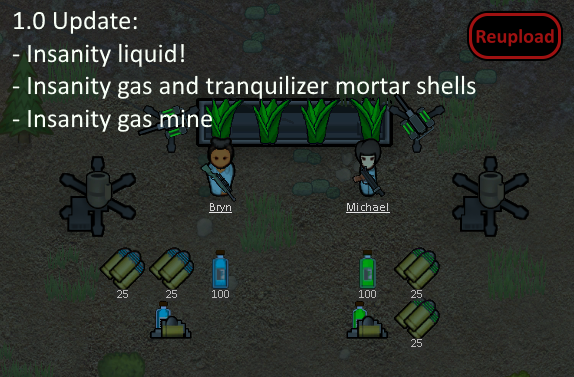
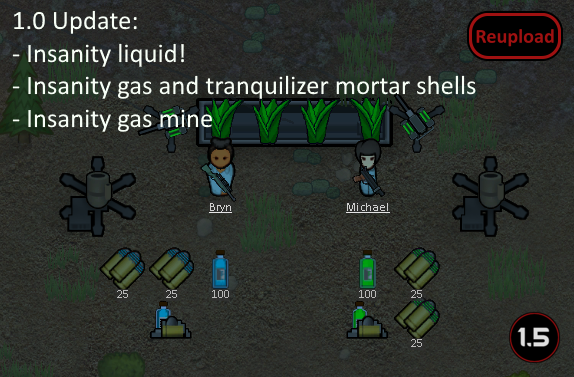
Mod updated for 1.5 and passed autotests

Changed region(s): [[0.8885, 0.817, 0.9774, 0.9629]]

diff --git a/Source/Tranquilizer/ProjectileTranquillizerBullet.cs b/Source/Tranquilizer/ProjectileTranquillizerBullet.cs
@@ -5,13 +5,13 @@ namespace Wowcheg.Tranquilizer;
 
 public class ProjectileTranquillizerBullet : Bullet
 {
-    public HediffDef HediffToAdd = HediffDefTranquilizer.Tranquilizer;
+    public readonly HediffDef HediffToAdd = HediffDefTranquilizer.Tranquilizer;
 
     public ThingDefTranquillizerBullet Def => def as ThingDefTranquillizerBullet;
 
     protected override void Impact(Thing hitThing, bool blockedByShield = false)
     {
-        base.Impact(hitThing);
+        base.Impact(hitThing, blockedByShield);
         if (Def == null || hitThing is not Pawn hitPawn)
         {
             return;

diff --git a/Source/Tranquilizer/TranquilizerMod.cs b/Source/Tranquilizer/TranquilizerMod.cs
@@ -27,8 +27,7 @@ internal class TranquilizerMod : Mod
     {
         instance = this;
         currentVersion =
-            VersionFromManifest.GetVersionFromModMetaData(
-                ModLister.GetActiveModWithIdentifier("Mlie.TranquilizerGuns"));
+            VersionFromManifest.GetVersionFromModMetaData(content.ModMetaData);
     }
 
     /// <summary>

diff --git a/README.md b/README.md
@@ -64,12 +64,13 @@ I guess guns became too weak:
 
 -  See if the the error persists if you just have this mod and its requirements active.
 -  If not, try adding your other mods until it happens again.
--  Post your error-log using https://steamcommunity.com/workshop/filedetails/?id=818773962]HugsLib and command Ctrl+F12
+-  Post your error-log using https://steamcommunity.com/workshop/filedetails/?id=818773962]HugsLib or the standalone https://steamcommunity.com/sharedfiles/filedetails/?id=2873415404]Uploader and command Ctrl+F12
 -  For best support, please use the Discord-channel for error-reporting.
 -  Do not report errors by making a discussion-thread, I get no notification of that.
 -  If you have the solution for a problem, please post it to the GitHub repository.
+-  Use https://github.com/RimSort/RimSort/releases/latest]RimSort to sort your mods
 
 
 
+https://steamcommunity.com/sharedfiles/filedetails/changelog/2606555060]![Image](https://img.shields.io/github/v/release/emipa606/TranquilizerGuns?label=latest%20version&style=plastic&color=9f1111&labelColor=black)
 
-https://steamcommunity.com/sharedfiles/filedetails/changelog/2606555060]Last updated 2023-05-22
